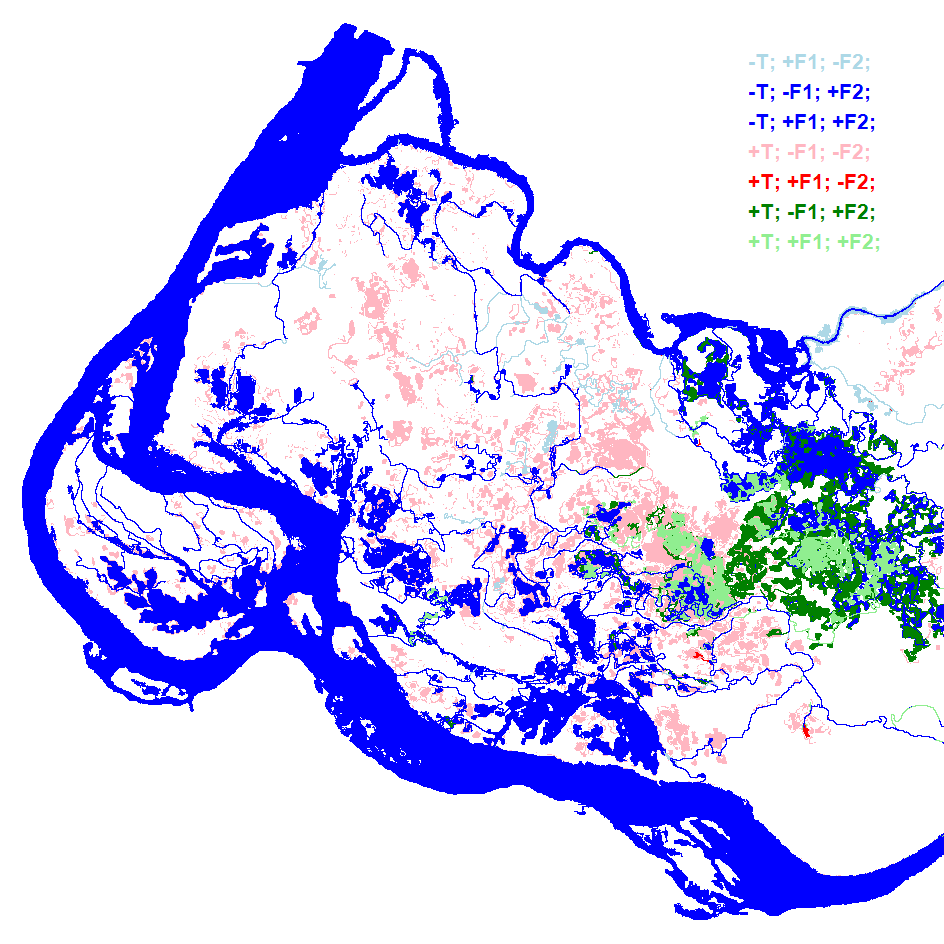
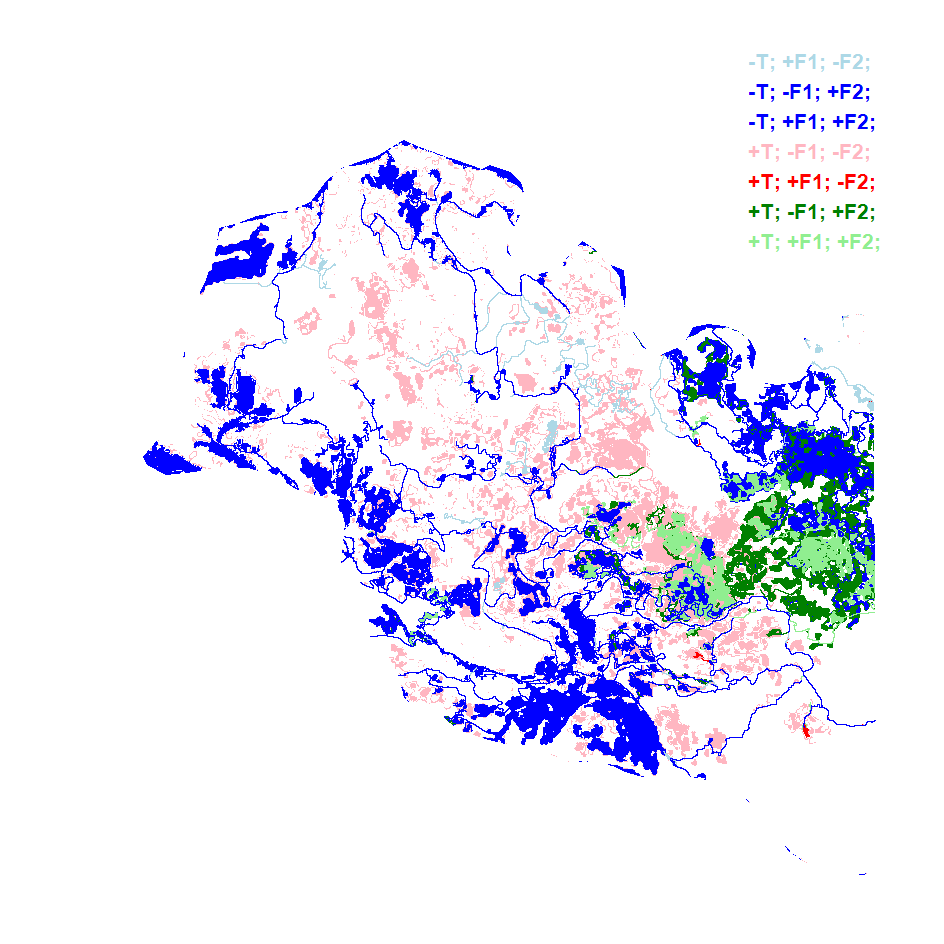
Add masking of interesting zones

diff --git a/EfficiencyDiffChecker/Program.cs b/EfficiencyDiffChecker/Program.cs
@@ -17,7 +17,10 @@ namespace EfficiencyDiffChecker
             public string Floodmap2Path { get; set; }
 
             [Option("targetmap", Required = true)]
-            public string TargetmapPath { get; set; }
+            public string TargetMapPath { get; set; }
+
+            [Option("targetmask", Required = true)]
+            public string TargetMaskPath { get; set; }
 
             [Option("targetvalue", Required = true)]
             public double TargetValue { get; set; }
@@ -28,12 +31,18 @@ namespace EfficiencyDiffChecker
 
         private struct Diff
         {
-            public const int FLOODED1 = 0b001;
-            public const int FLOODED2 = 0b010;
+            public const int FLOODED1 = 0b1;
+            public const int FLOODED2 = 0b10;
             public const int TARGET = 0b100;
+            public const int MASK = 0b1000;
         }
 
-        private static GridMap GetDiffBetween(GridMap floodmap1, GridMap floodmap2, GridMap targetMap, double targetValue)
+        private static GridMap GetDiffBetween(
+            GridMap floodmap1,
+            GridMap floodmap2,
+            GridMap targetMap,
+            GridMap targetMask,
+            double targetValue)
         {
             var result = floodmap1.Copy();
             for (var x = 0; x < floodmap1.Width; x++)
@@ -43,8 +52,9 @@ namespace EfficiencyDiffChecker
                     var target = targetMap[x, y] == targetValue ? Diff.TARGET : 0;
                     var flooded1 = floodmap1[x, y] > 0 ? Diff.FLOODED1 : 0;
                     var flooded2 = floodmap2[x, y] > 0 ? Diff.FLOODED2 : 0;
+                    var mask = targetMask[x, y] != 0 ? Diff.MASK : 0;
 
-                    result[x, y] = target | flooded1 | flooded2;
+                    result[x, y] = target | flooded1 | flooded2 | mask;
                 }
             }
             return result;
@@ -54,14 +64,14 @@ namespace EfficiencyDiffChecker
         {
             var meanings = new int[]
             {
-                0,
-                Diff.FLOODED1,
-                Diff.FLOODED2,
-                Diff.FLOODED1 | Diff.FLOODED2,
-                Diff.TARGET,
-                Diff.TARGET | Diff.FLOODED1,
-                Diff.TARGET | Diff.FLOODED2,
-                Diff.TARGET | Diff.FLOODED1 | Diff.FLOODED2
+                Diff.MASK,
+                Diff.FLOODED1 | Diff.MASK,
+                Diff.FLOODED2 | Diff.MASK,
+                Diff.FLOODED1 | Diff.FLOODED2 | Diff.MASK,
+                Diff.TARGET | Diff.MASK,
+                Diff.TARGET | Diff.FLOODED1 | Diff.MASK,
+                Diff.TARGET | Diff.FLOODED2 | Diff.MASK,
+                Diff.TARGET | Diff.FLOODED1 | Diff.FLOODED2 | Diff.MASK
             };
 
             var colors = new Color[]
@@ -125,25 +135,28 @@ namespace EfficiencyDiffChecker
                 for (var y = 0; y < diffMap.Height; y++)
                 {
                     var cell = (int)diffMap[x, y];
-                    total++;
-                    if ((cell & Diff.FLOODED1) != 0)
+                    if ((cell & Diff.MASK) != 0)
                     {
-                        baseFlooded++;
-                    }
-                    if ((cell & Diff.FLOODED2) != 0)
-                    {
-                        newFlooded++;
-                    }
-                    if ((cell & Diff.TARGET) != 0)
-                    {
-                        totalTarget++;
+                        total++;
                         if ((cell & Diff.FLOODED1) != 0)
                         {
-                            baseFloodedTarget++;
+                            baseFlooded++;
                         }
                         if ((cell & Diff.FLOODED2) != 0)
                         {
-                            newFloodedTarget++;
+                            newFlooded++;
+                        }
+                        if ((cell & Diff.TARGET) != 0)
+                        {
+                            totalTarget++;
+                            if ((cell & Diff.FLOODED1) != 0)
+                            {
+                                baseFloodedTarget++;
+                            }
+                            if ((cell & Diff.FLOODED2) != 0)
+                            {
+                                newFloodedTarget++;
+                            }
                         }
                     }
                 }
@@ -161,11 +174,12 @@ namespace EfficiencyDiffChecker
 
         static void Run(Options options)
         {
-            var targetmap = Grd.Read(options.TargetmapPath);
+            var targetMap = Grd.Read(options.TargetMapPath);
+            var targetMask = Grd.Read(options.TargetMaskPath);
             var floodmap1 = Grd.Read(options.Floodmap1Path);
             var floodmap2 = Grd.Read(options.Floodmap2Path);
 
-            var diff = GetDiffBetween(floodmap1, floodmap2, targetmap, options.TargetValue);
+            var diff = GetDiffBetween(floodmap1, floodmap2, targetMap, targetMask, options.TargetValue);
             var bitmap = DrawDiffMap(diff);
             var report = PrepareReport(diff);
             bitmap.Save($"{options.OutputDir}/diff.png");
